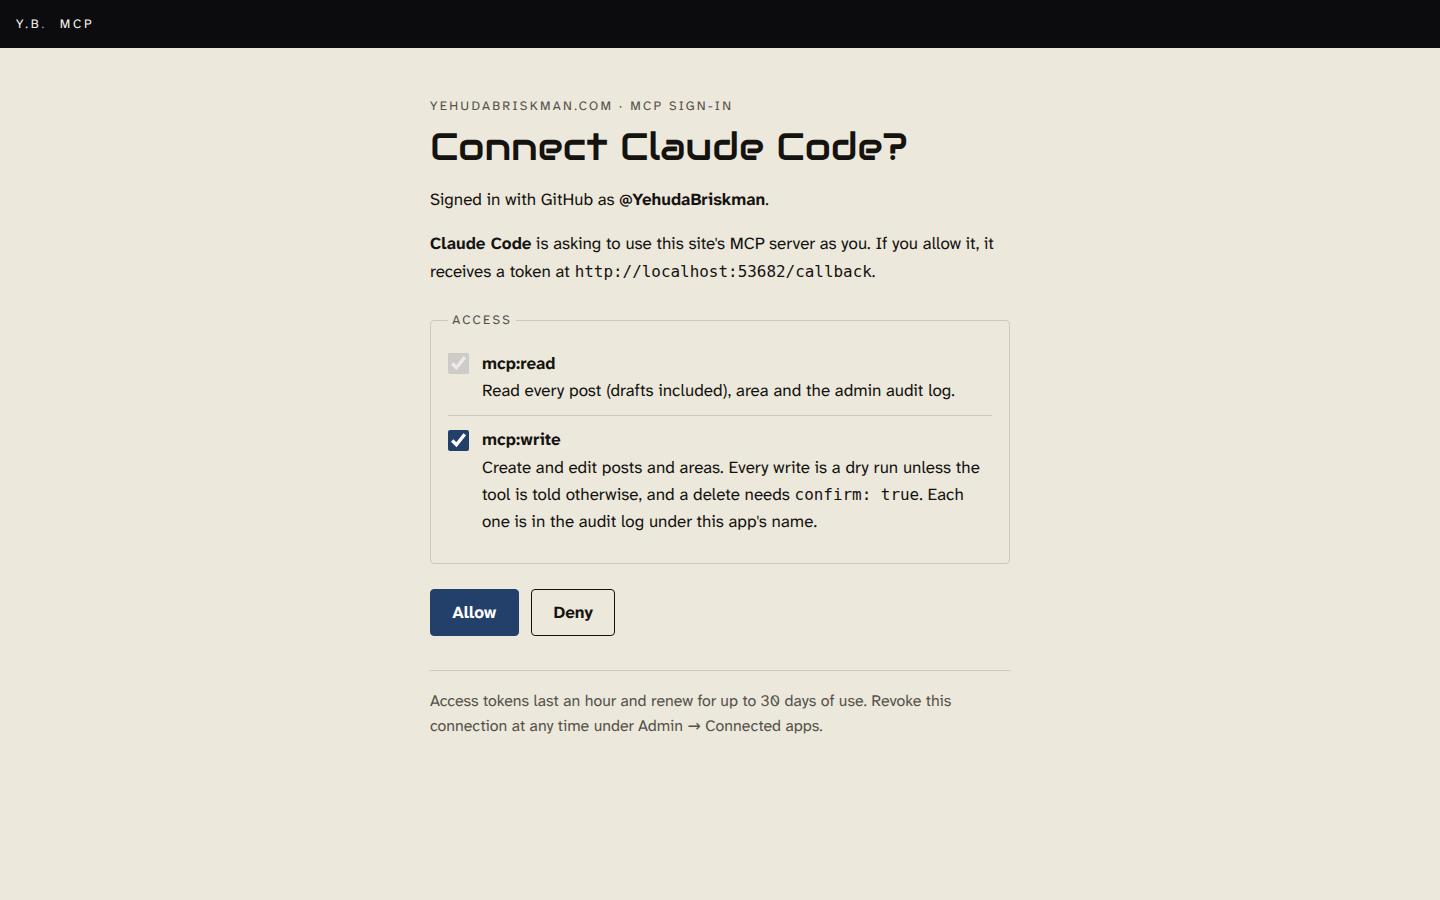
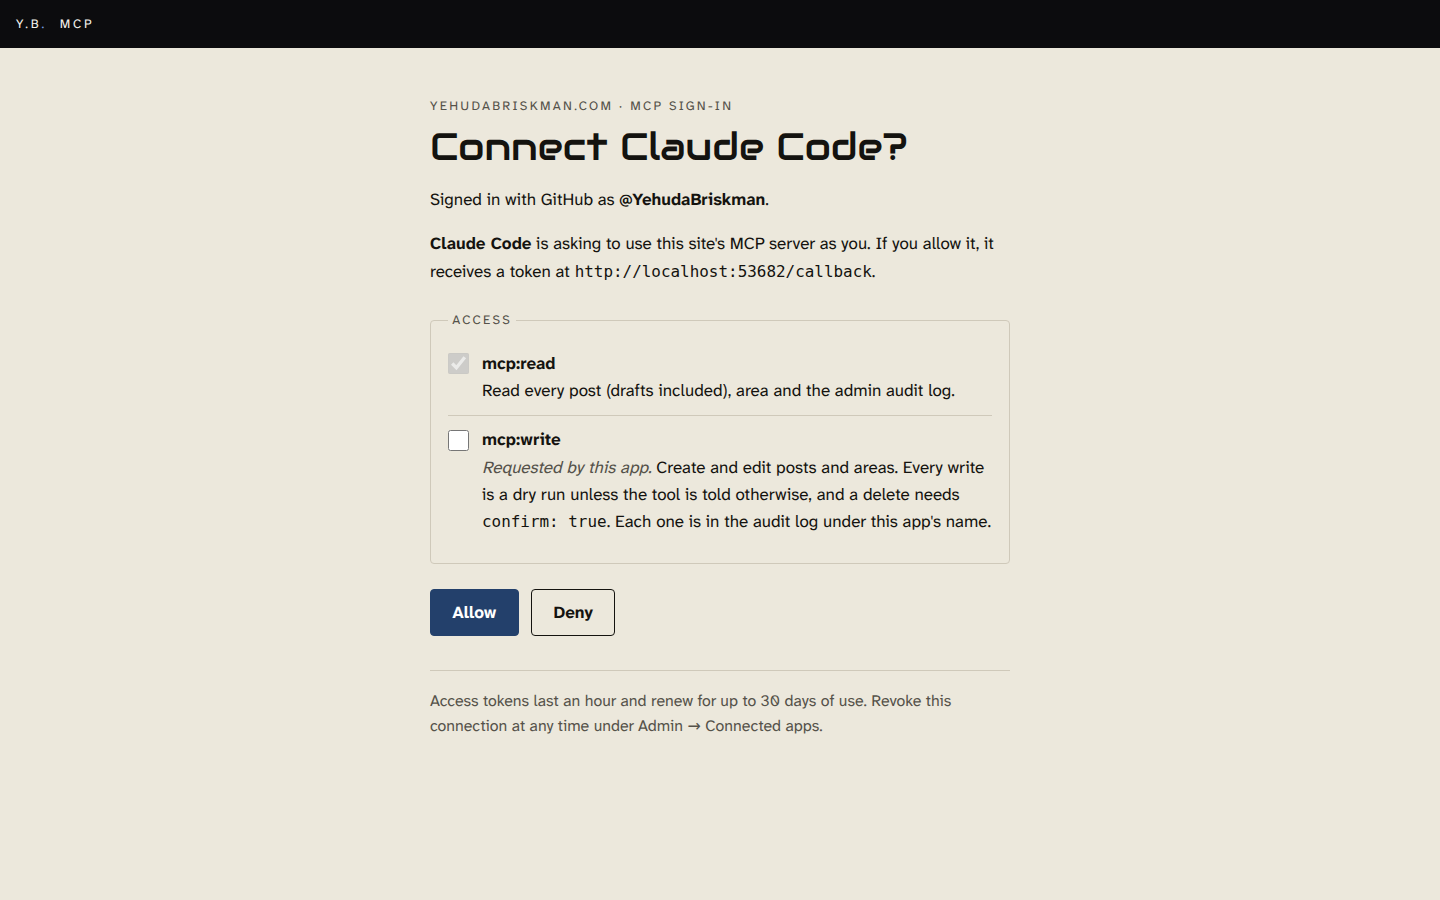
fix(mcp): never pre-check mcp:write on consent; pin ADMIN_GITHUB_ID for prod
Write access is always a deliberate tick by the owner, even when the
client asks for it (least privilege); the page notes the request. The
owner steps now list ADMIN_GITHUB_ID=145012406 as required in prod, so
the owner's id is pinned rather than trusted on first sign-in.

Refs #263

Claude-Session: https://claude.ai/code/session_013rV122rB1efRPxM15SDQLv

Changed region(s): [[0.3125, 0.4667, 0.6875, 0.5911]]

diff --git a/backend/src/mcp/oauth/pages.ts b/backend/src/mcp/oauth/pages.ts
@@ -73,6 +73,10 @@ export function sendPage(res: Response, opts: PageOpts) {
 <main><p class="eyebrow">${escapeHtml(opts.eyebrow)}</p><h1>${escapeHtml(opts.title)}</h1>${opts.body}</main></body></html>`);
 }
 
+/*
+ * mcp:write is never pre-checked, even when the client asks for it: least
+ * privilege, so write access is always a deliberate tick by the owner.
+ */
 export function consentPage(
   res: Response,
   o: { clientName: string; redirectUri: string; login: string; txn: string; csrf: string; writeRequested: boolean },
@@ -89,7 +93,7 @@ export function consentPage(
 <input type="hidden" name="csrf" value="${escapeHtml(o.csrf)}">
 <fieldset><legend>Access</legend>
 <label><input type="checkbox" checked disabled><span><b>mcp:read</b>Read every post (drafts included), area and the admin audit log.</span></label>
-<label><input type="checkbox" name="write" value="on"${o.writeRequested ? " checked" : ""}><span><b>mcp:write</b>Create and edit posts and areas. Every write is a dry run unless the tool is told otherwise, and a delete needs <code>confirm: true</code>. Each one is in the audit log under this app's name.</span></label>
+<label><input type="checkbox" name="write" value="on"><span><b>mcp:write</b>${o.writeRequested ? '<i class="soft">Requested by this app. </i>' : ""}Create and edit posts and areas. Every write is a dry run unless the tool is told otherwise, and a delete needs <code>confirm: true</code>. Each one is in the audit log under this app's name.</span></label>
 </fieldset>
 <div class="actions"><button class="primary" type="submit" name="decision" value="approve">Allow</button><button class="ghost" type="submit" name="decision" value="deny">Deny</button></div>
 </form>

diff --git a/backend/src/mcp/remote.test.ts b/backend/src/mcp/remote.test.ts
@@ -487,10 +487,14 @@ describe("the sign-in", () => {
     const { challenge } = pkce();
     const auth = await request(app).get("/mcp/oauth/authorize").query({
       response_type: "code", client_id: c.client_id, redirect_uri: REDIRECT, code_challenge: challenge, code_challenge_method: "S256",
+      scope: "mcp:read mcp:write",
     });
     const cookie = cookieFrom(auth);
     const state = new URL(auth.headers.location).searchParams.get("state")!;
     const cb = await request(app).get("/mcp/oauth/github/callback").query({ code: "gh-code", state }).set("Cookie", cookie);
+    // mcp:write is never pre-checked, even though this client asked for it.
+    expect(cb.text).toMatch(/<input type="checkbox" name="write" value="on">/);
+    expect(cb.text).not.toMatch(/name="write"[^>]*checked/);
     expect(cb.headers["content-security-policy"]).toMatch(/default-src 'none'.*form-action 'self'.*frame-ancestors 'none'/);
     const txn = /name="txn" value="([^"]+)"/.exec(cb.text)![1];
     const csrf = /name="csrf" value="([^"]+)"/.exec(cb.text)![1];

diff --git a/docs/remote-mcp/README.md b/docs/remote-mcp/README.md
@@ -19,7 +19,7 @@ The public page is `/developers/mcp`, and the code is in `backend/src/mcp/`.
    Generate a client secret. Do **not** reuse the oauth2-proxy app: its callback and its users are different.
 2. **Put the secrets in the API's environment:**
    - `MCP_GITHUB_CLIENT_ID` and `MCP_GITHUB_CLIENT_SECRET`, from step 1.
-   - `ADMIN_GITHUB_ID` is optional: your numeric GitHub id, from `gh api user -q .id`. Without it, the id seen at the first sign-in is recorded and held from then on.
+   - **`ADMIN_GITHUB_ID=145012406`**, the owner's numeric GitHub id. It is **required for prod**: it pins the id, rather than trusting whichever account signs in first. (The code falls back to recording the first sign-in's id only when it is unset, which is for local development.)
 3. **Set `MCP_REMOTE=on`.** The API refuses to start with it on and the GitHub credentials missing.
 4. **Tag a release** to deploy it.
 5. **Check it.**
